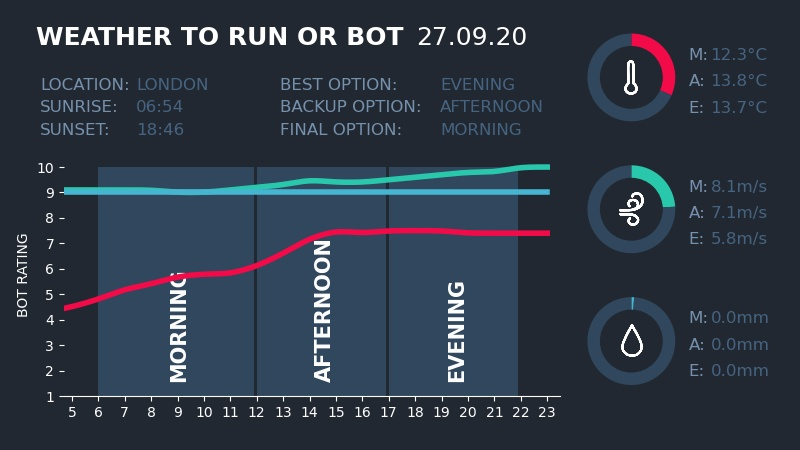
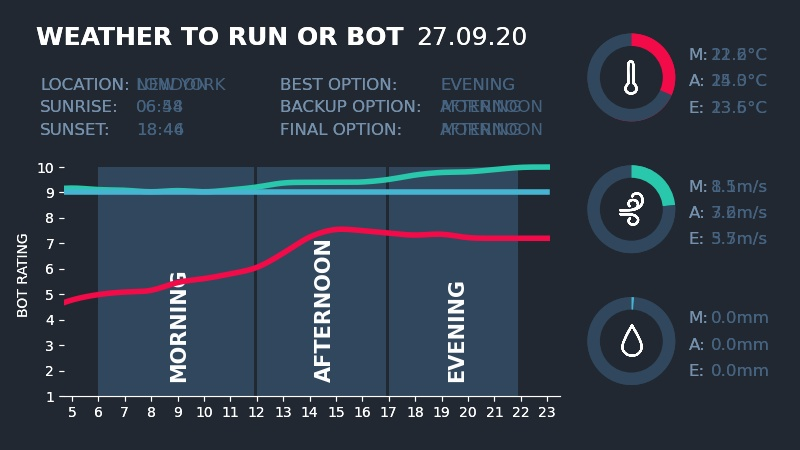
Fixed error where plots we not being cleared properly. Fixed edge case where location could not be found

diff --git a/main.py b/main.py
@@ -79,17 +79,26 @@ def reply_to_mentions(api_obj, hashtag_str, initial_since_id):
             logger.info(f"Answering {tweet.user.name}")
 
             loc = auto_reply_bot.text_to_coords(tweet.text)
-            reply_text, dashboard_file = tweet_your_weather(loc)
+            if loc:
+                reply_text, dashboard_file = tweet_your_weather(loc)
 
-            # Upload media
-            media = api_obj.media_upload(dashboard_file)
+                # Upload media
+                media = api_obj.media_upload(dashboard_file)
 
-            api_obj.update_status(
-                status=f"@{tweet.author.screen_name} {reply_text}",
-                in_reply_to_status_id=tweet.id,
-                auto_populate_reply_metadata=True,
-                media_ids=[media.media_id]
-            )
+                api_obj.update_status(
+                    status=f"@{tweet.author.screen_name} {reply_text}",
+                    in_reply_to_status_id=tweet.id,
+                    auto_populate_reply_metadata=True,
+                    media_ids=[media.media_id]
+                )
+            else:
+                reply_text = "sorry, I couldn't find your location. Want to give it another try?"
+
+                api_obj.update_status(
+                    status=f"@{tweet.author.screen_name} {reply_text}",
+                    in_reply_to_status_id=tweet.id,
+                    auto_populate_reply_metadata=True
+                )
 
     # Set the last mention tweet id
     with open("bots/last_checked_tweet_id.txt", "w") as f:
@@ -103,7 +112,8 @@ def tweet_your_weather(location):
     choices, order = rankings_interpreter(your_tomorrow.rankings)
     tone = your_tomorrow.alert_level
 
-    fname = f"dashboards/replies/{list(location.keys())[0].lower()}_dashboard" \
+    dashboard_filename_prefix = "_".join(list(location.keys())[0].lower().split())
+    fname = f"dashboards/replies/{dashboard_filename_prefix}_dashboard" \
             f"_{your_tomorrow.date.strftime('%d-%m-%y')}.jpg"
     forecast.plot_scores(your_tomorrow, order, to_show=False, filename=fname)
 

diff --git a/weather/forecast.py b/weather/forecast.py
@@ -222,8 +222,10 @@ def plot_scores(day, rankings, to_show, filename):
     # ab_bot = AnnotationBbox(bot, (-1.25, -0.28), frameon=False)
     # ax4.add_artist(ab_bot)
 
-    if to_show:
-        plt.show()
-
     if filename:
         fig.savefig(filename)
+
+    if to_show:
+        plt.show()
+    else:
+        plt.close()
